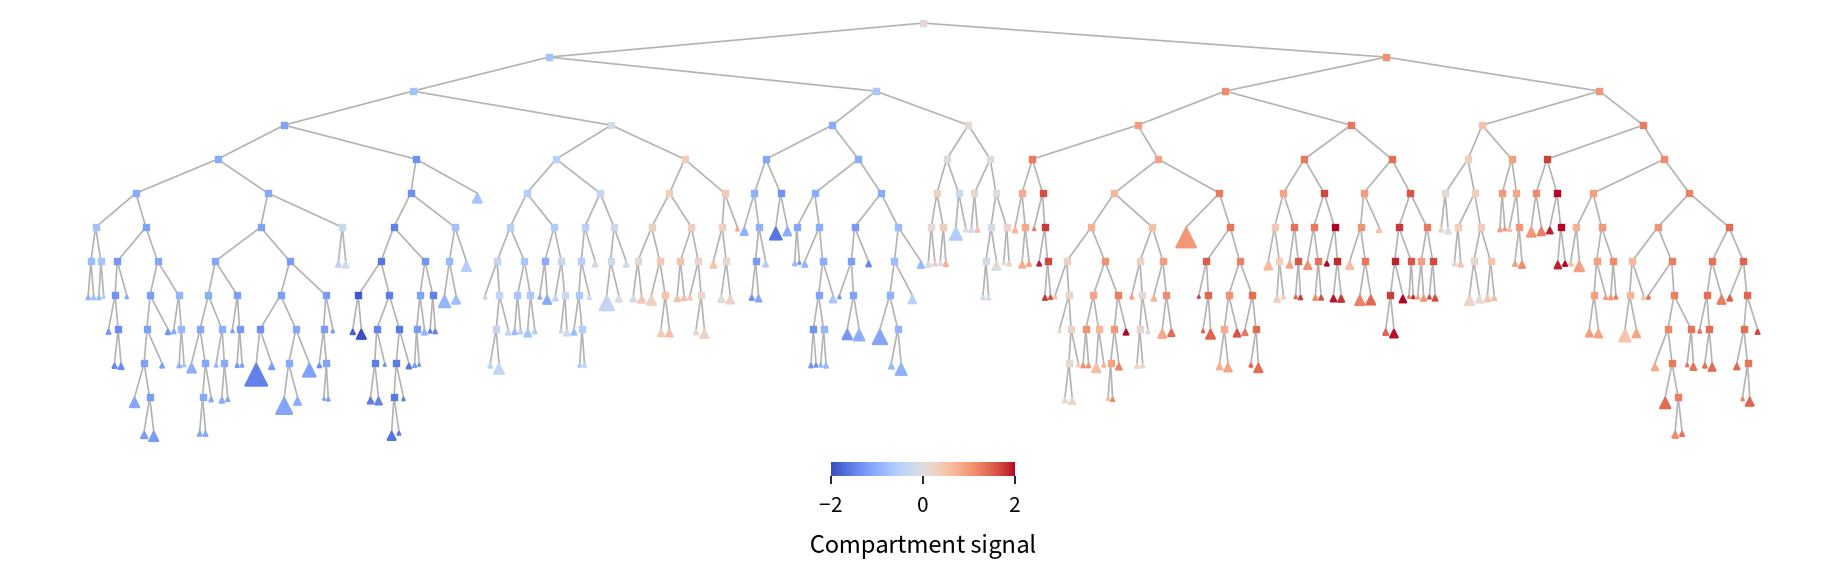
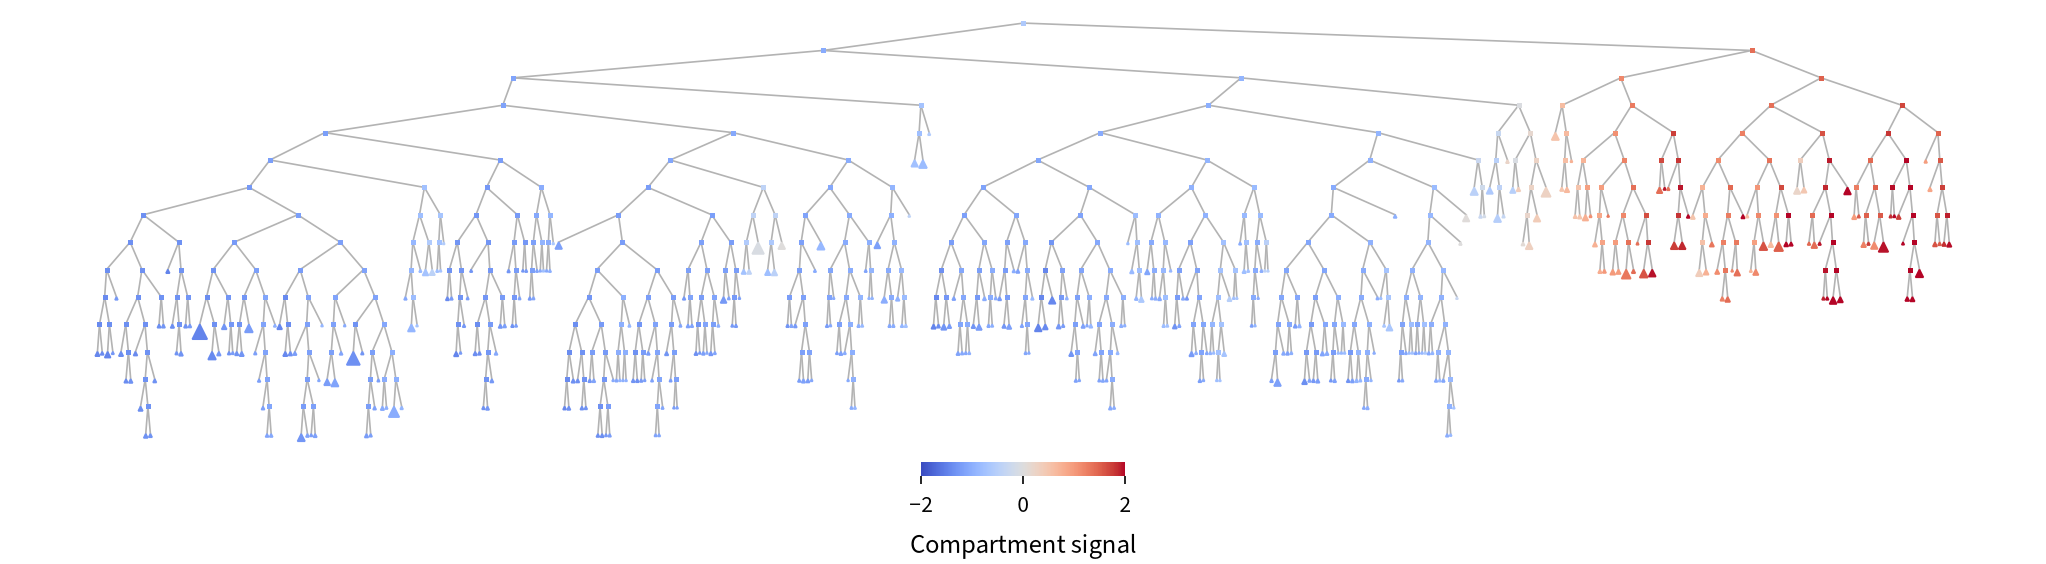
Update README

diff --git a/README.md b/README.md
@@ -26,7 +26,7 @@ Give an mcool contact matrix, a TAD annotation table, optionally an A/B feature 
 
 ```shell
 $ tadclust \
-  --out-dir          out \
+  --output-dir       out \
   --mcool            contact_map.mcool \
   --tad-table        tad_annotation.bed \
   --ab-feature-track active_signal.bedGraph
@@ -39,8 +39,8 @@ The TAD table can be any disjoint or hierarchical TAD annotation in the BED3+ fo
 | option              | default | description |
 |:--------------------|:--------|:------------|
 | --tree-branch-k  K  | 2       | Split count of recursive k-means. |
-| --enable-trans      | no      | Enable trans-chromosomal clustering (experimental and expensive). |
-| --include-residuals | no      | Fill gaps with `residual` pseudo-domains. |
+| --with-trans        | no      | Enable trans-chromosomal clustering (experimental and expensive). |
+| --with-residuals    | no      | Fill gaps with `residual` pseudo-domains. |
 | --overwrite         | no      | Allow overwriting existing files in the output directory. |
 | --workers        N  | 1       | Run analysis in parallel using N processes. |
 | --seed           N  | 0       | Random seed for reproducibility. |
@@ -110,7 +110,7 @@ For **A/B compartment** annotation, an auxiliary binary split of an augmented fe
 
 The **A/B signal** is the 1D projection of the node's PC centroid onto the A-B axis in the PC space (the axis along the A and B centroids). This is a generalization of the conventional PC1 compartment signal to the bisected, higher-dimensional PC space. The magnitude of the signal is informative: it is the distance from the decision boundary, so close-to-zero signal indicates poor compartmentalization. The PC space is standardized in A/B analysis, so the typical values of the signal distribute in the ~3 sigma range, or within approximtely \[-3,3\], so the "normal" magnitude would be around ~1.
 
-**Genome-wide clustering** (experimental) is also done when `--enable-trans` flag is passed. Genome-wide, trans-chrom O/E is built using the cis-defined TADs as units, diagonalized, and recursively clustered. The trans tree tends to capture chromosome territories or telomere clustering rather than genome-wide A/B compartments. Still, the `unit_id` is shared between the cis table, so one can JOIN cis and trans tables to examine cis-determined A/B on the trans tree.
+**Genome-wide clustering** (experimental) is also done when `--with-trans` flag is passed. Genome-wide, trans-chrom O/E is built using the cis-defined TADs as units, diagonalized, and recursively clustered. The trans tree tends to capture chromosome territories or telomere clustering rather than genome-wide A/B compartments. Still, the `unit_id` is shared between the cis table, so one can JOIN cis and trans tables to examine cis-determined A/B on the trans tree.
 
 ## AI disclosure
 
